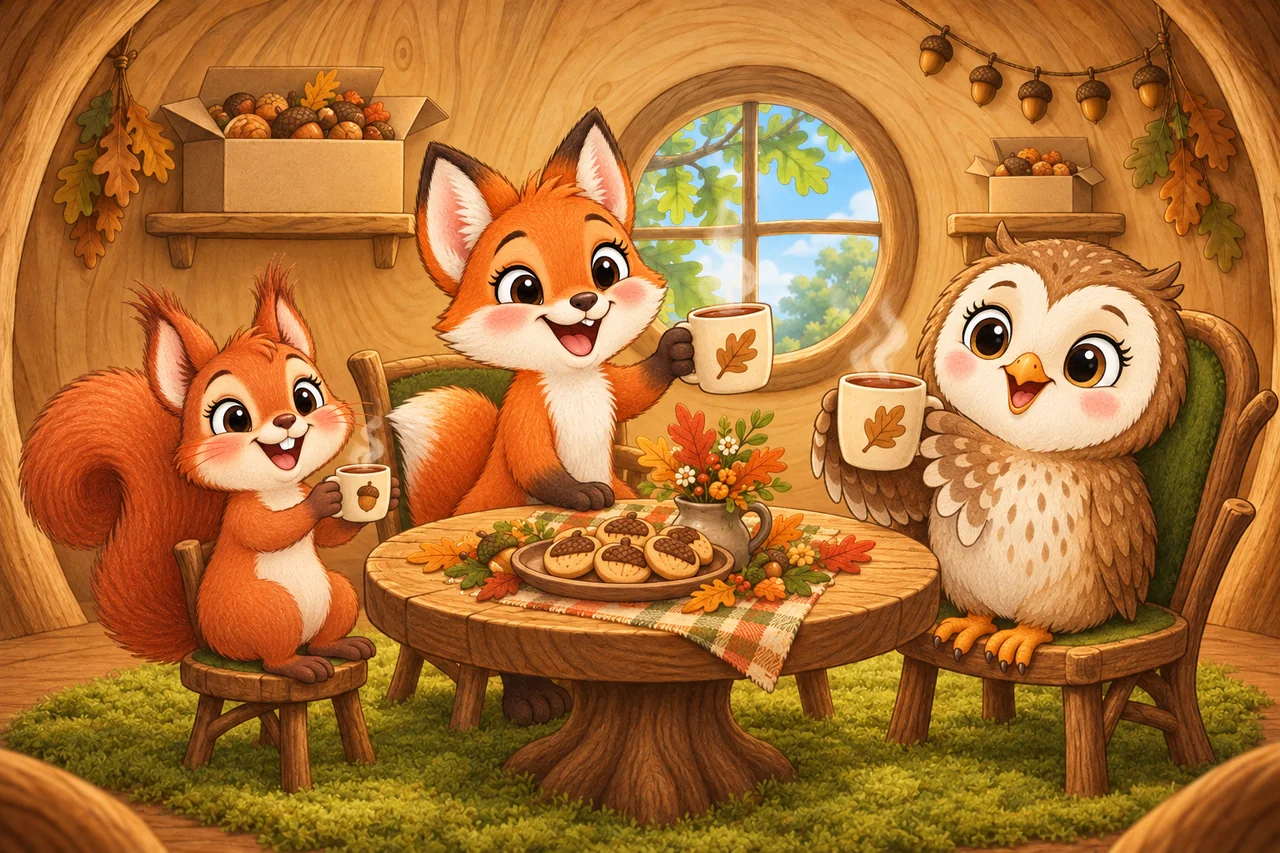
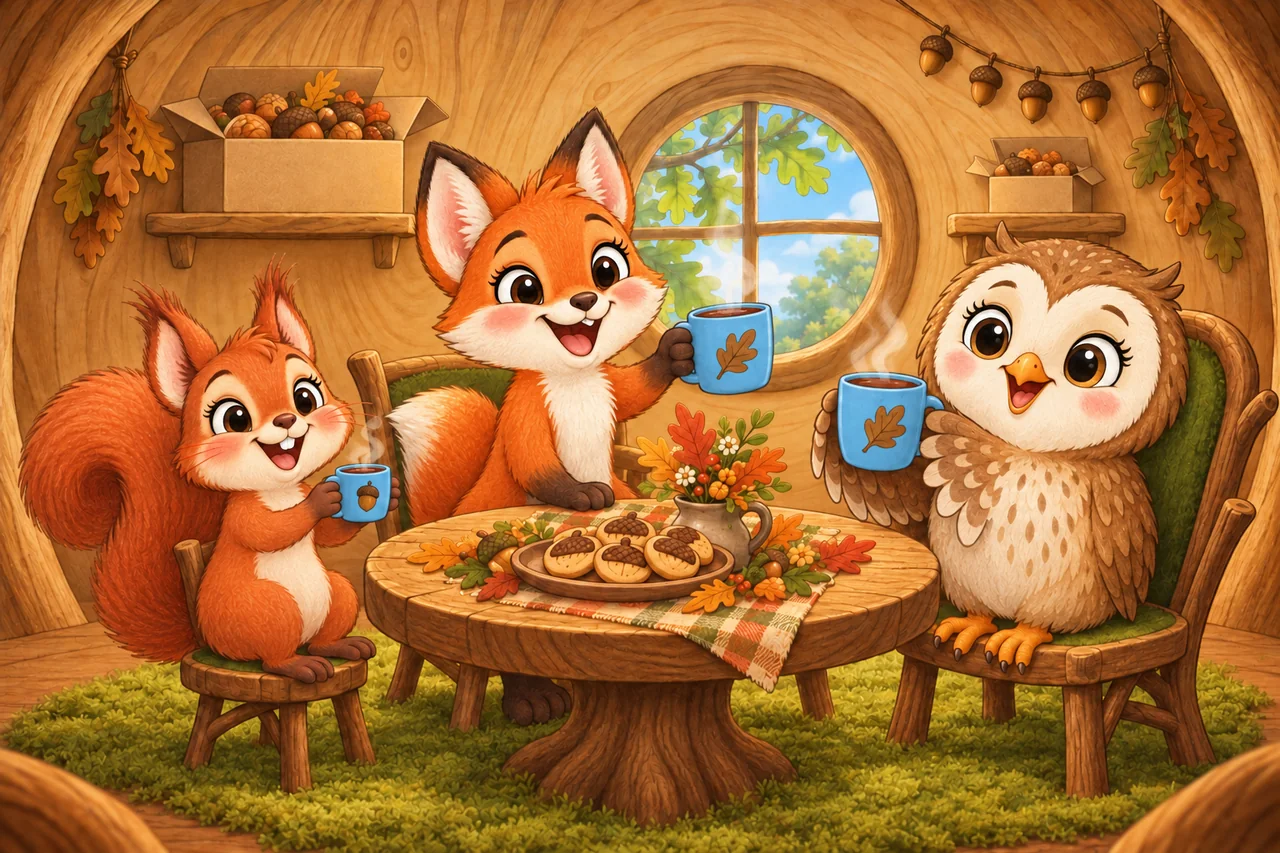
The housewarming illustration's cups are blue, as handed out in the lesson
The picture was edited, not redrawn: only the cups' glaze changed, their little leaf and acorn kept; the prompt says so for a rebuild.

diff --git a/tools/ilustracje/make_ilustracja.py b/tools/ilustracje/make_ilustracja.py
@@ -423,7 +423,8 @@ a leaf flutters. Funny, not scary: a comic moment, the trunk and the hole big in
         "postacie": ["wiewiorka", "lisek", "sowa"], "tlo": "dziupla_wnetrze", "lekcje": ["bigger_smaller"],
         "scena": """A cosy HOUSEWARMING party inside the squirrel's round hollow home from the reference picture: the SQUIRREL,
 the FOX and the OWL sit round a small round wooden table, laughing and raising their cups. The OWL on the BIGGEST chair,
-the FOX on a middle chair, the little SQUIRREL on the SMALLEST chair; a big cup for the fox, a small cup for the squirrel.
+the FOX on a middle chair, the little SQUIRREL on the SMALLEST chair; a big cup for the fox, a small cup for the squirrel -
+every cup BLUE (the blue cups handed out in the lesson).
 On the BIG shelf on the wall stands one BIG open cardboard box full of nuts and acorns, on the SMALL shelf one small
 open cardboard box full of nuts. A plate of acorn
 cookies on the table, a little garland of leaves, warm light, steam from the cups. A joyful party.""",
